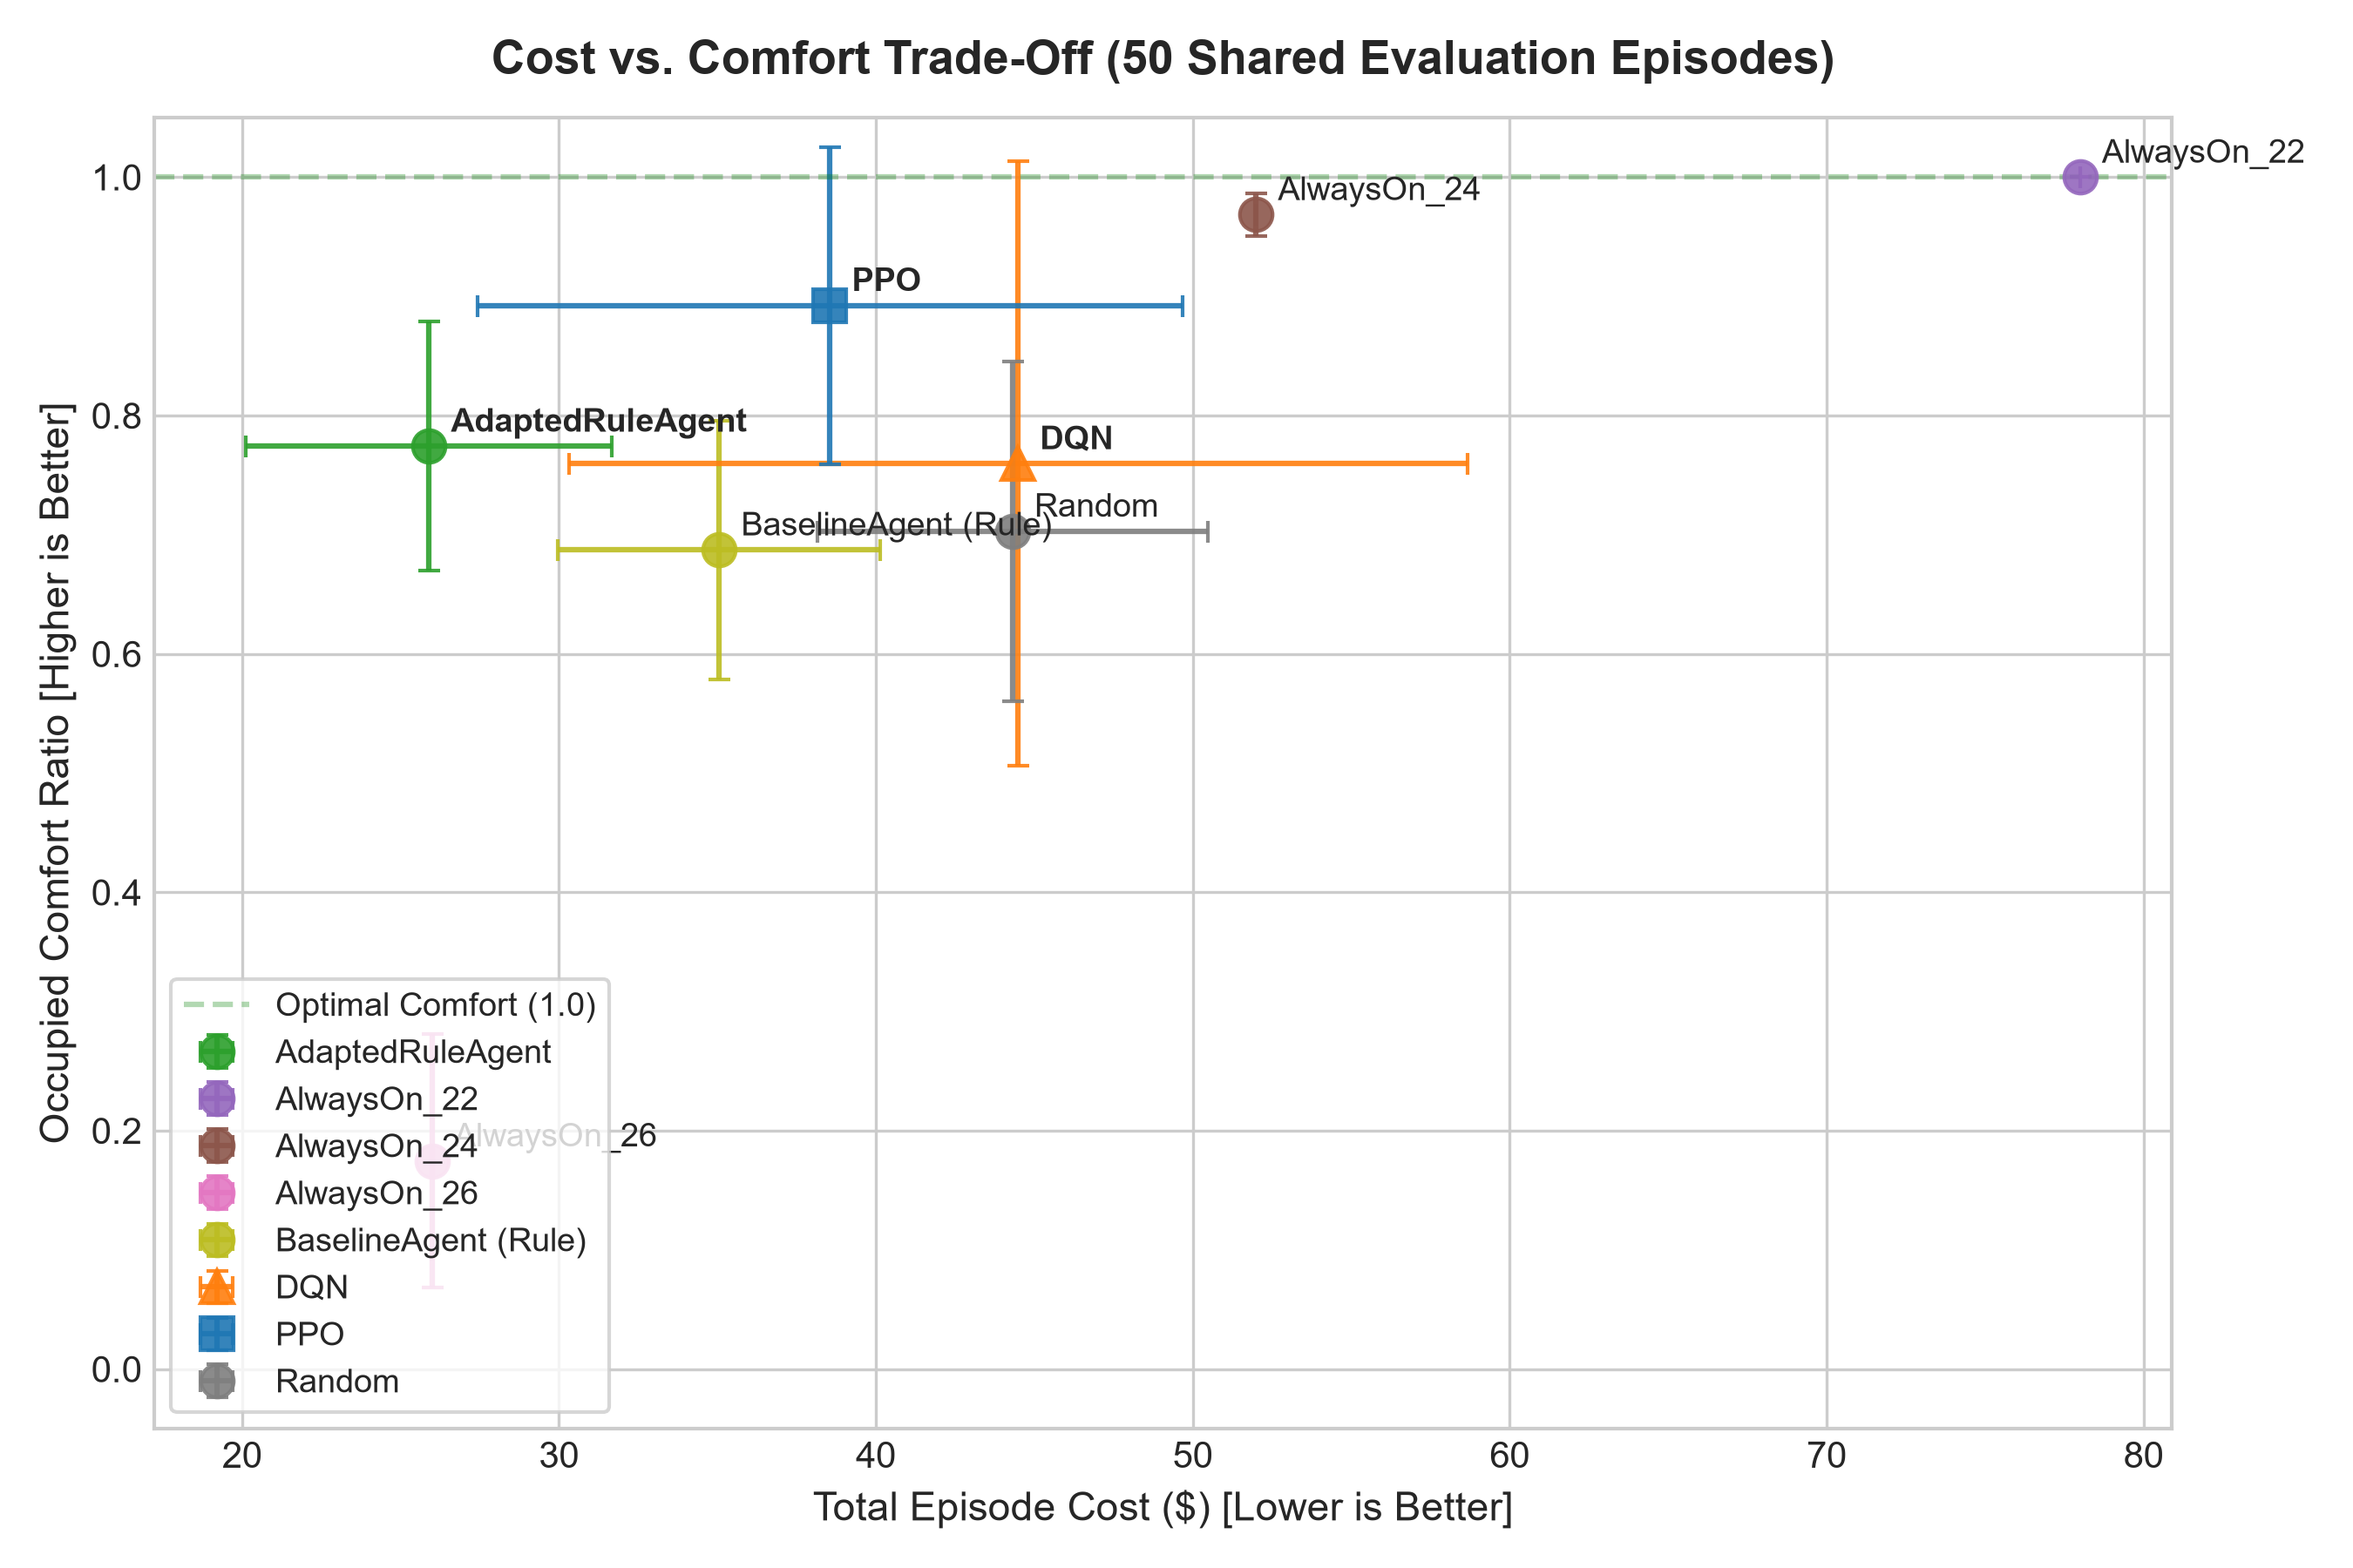
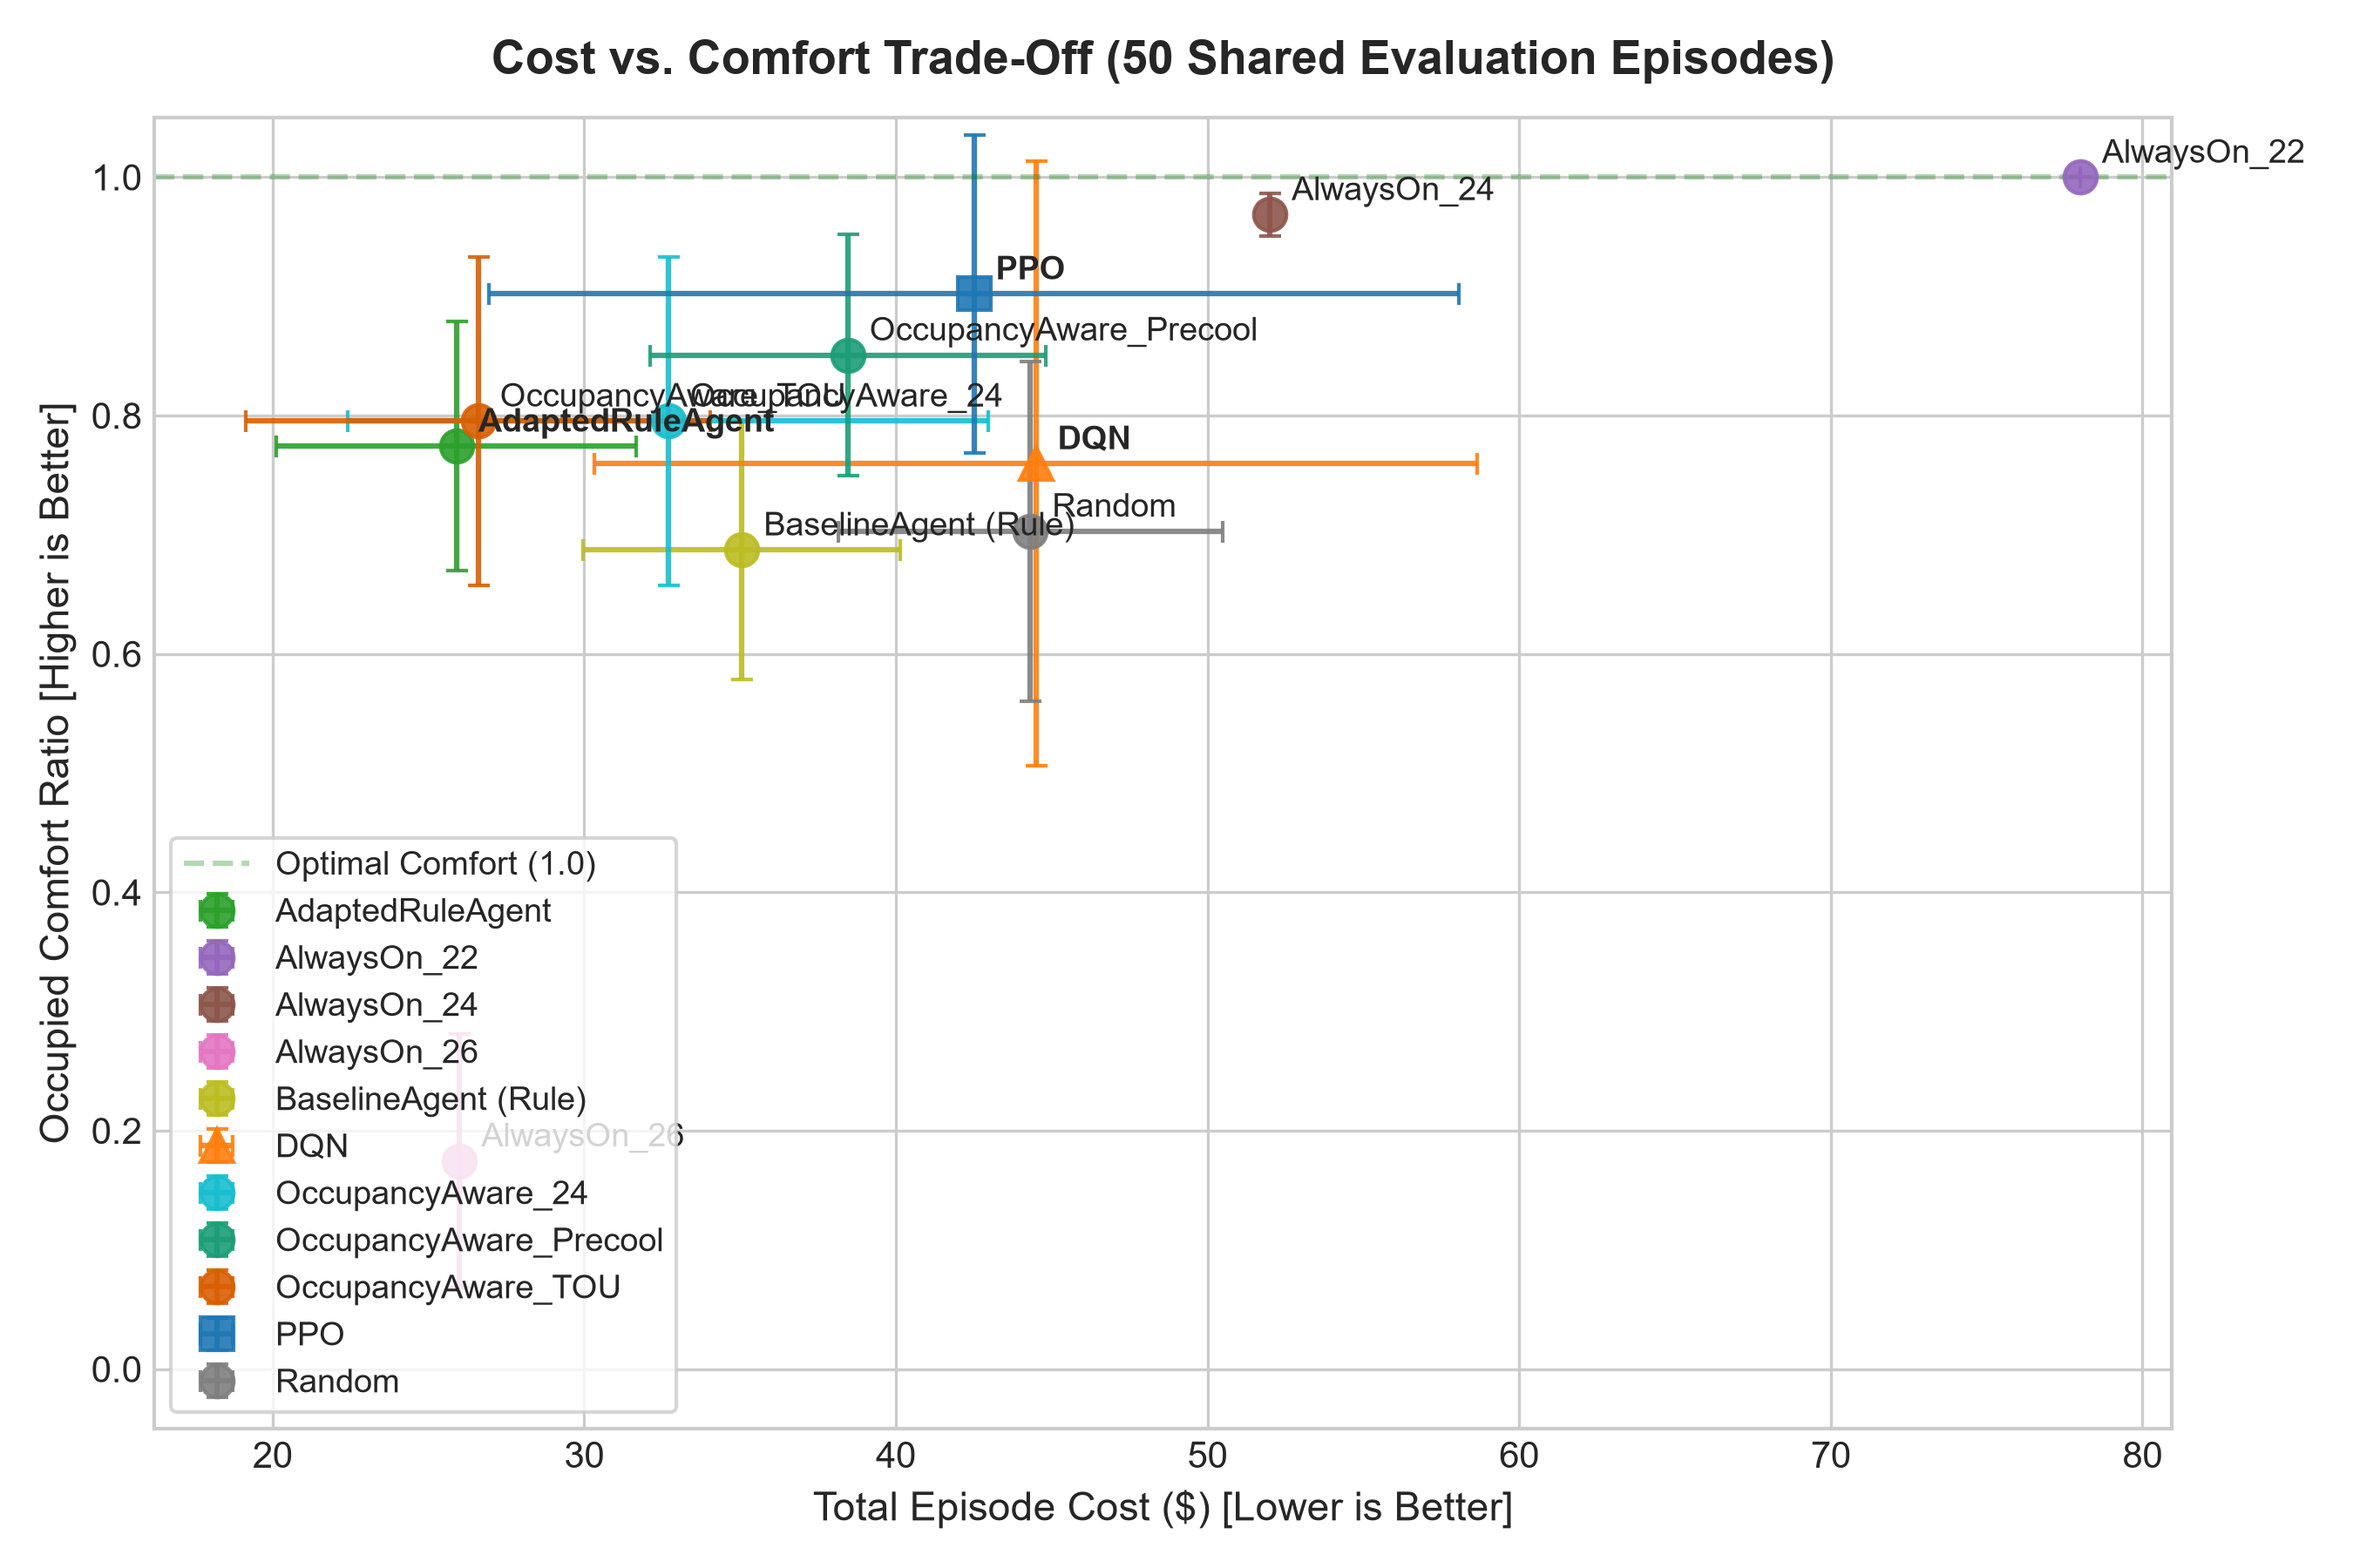
feat(viz): update cost vs comfort plot to include occupancy-aware baselines

diff --git a/scripts/make_report.py b/scripts/make_report.py
@@ -78,6 +78,9 @@ def generate_cost_vs_comfort_plot(metrics_csv="results/evaluation_metrics.csv", 
         "AlwaysOn_26": "#e377c2",
         "BaselineAgent (Rule)": "#bcbd22",
         "AdaptedRuleAgent": "#2ca02c",
+        "OccupancyAware_24": "#17becf",
+        "OccupancyAware_Precool": "#1b9e77",
+        "OccupancyAware_TOU": "#d95f02",
         "PPO": "#1f77b4",
         "DQN": "#ff7f0e",
     }
